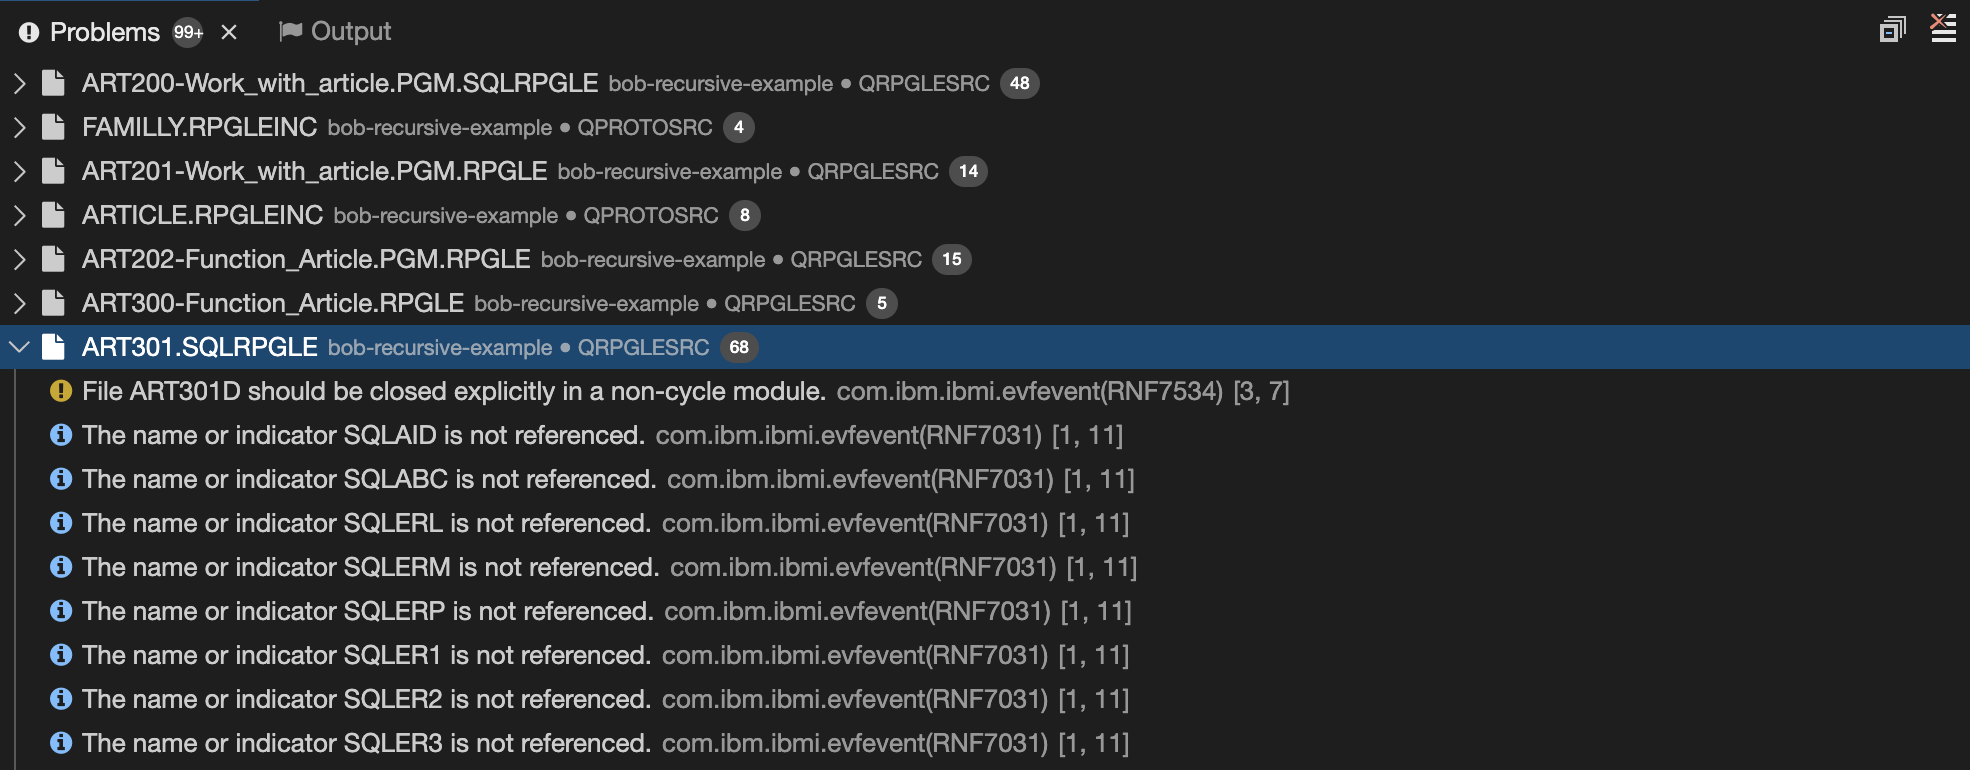
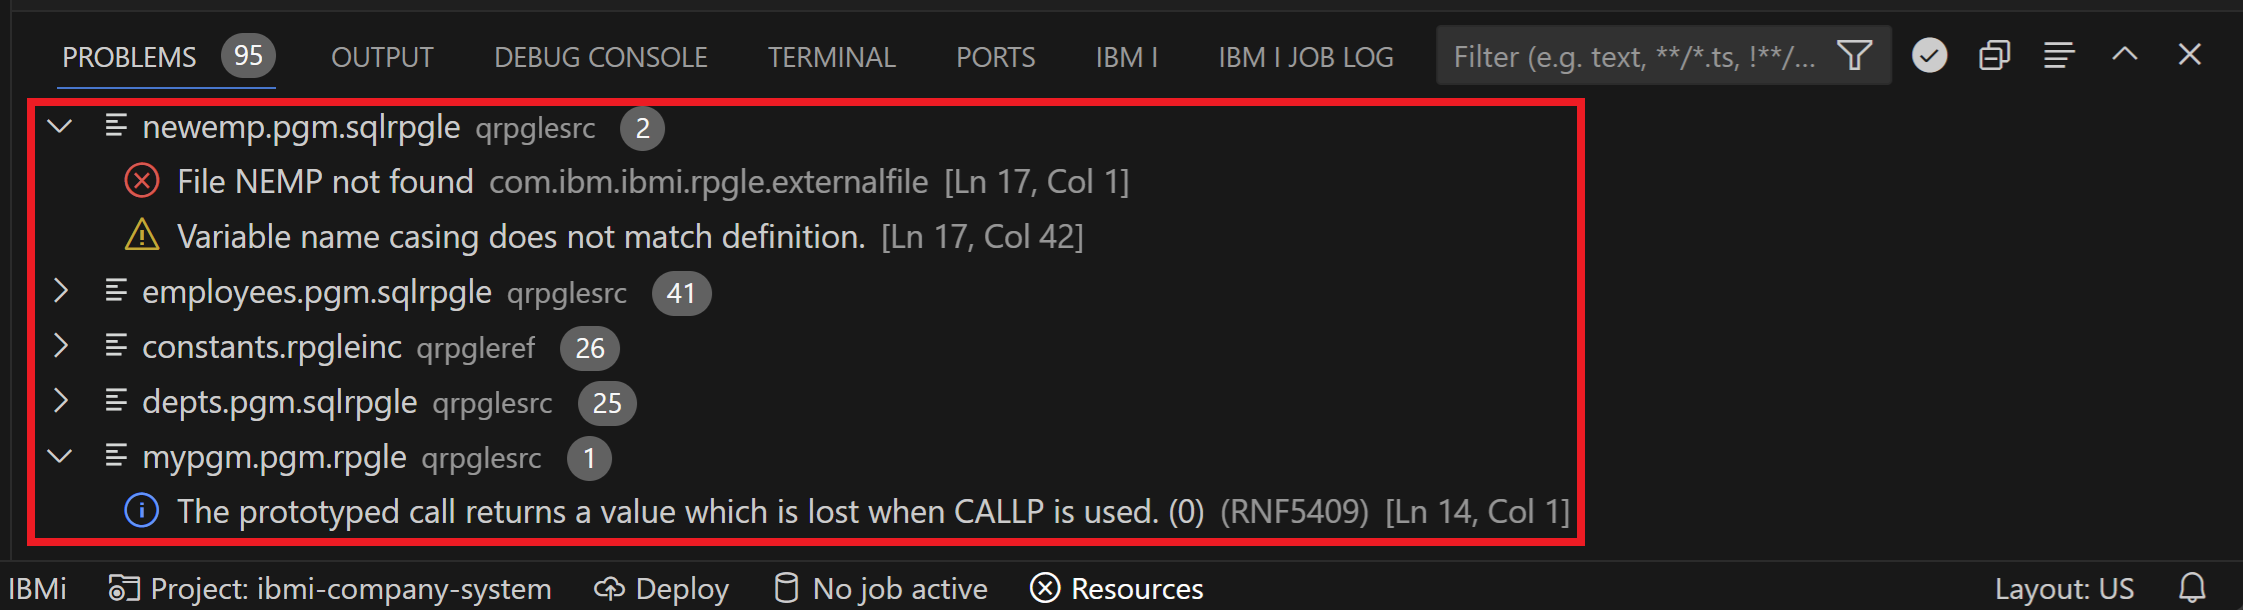
update developer build

diff --git a/docs/guides/ide/developerbuild.md b/docs/guides/ide/developerbuild.md
@@ -4,87 +4,150 @@ IBM i Developer allows the user to run the project-based developer builds. IBM i
 
 ## Prepare the Workspace and the Project
 
-Before getting started, please make sure you have set up your [IBM i Projects](ibmiprojectexplorer.md).
+Before getting started, please make sure you have set up your [IBM i Projects](./guides/ide/ibmiprojectexplorer.md).
 
 - Specify an IBM i Connection
-- Specify the Build Directory
-- Set the values for any variables defined in the project.
+- Set the deploy location
+- Set the values for any variables defined in the project
 
-## Configure the Build Command and the Compile Command
+The build or compiles of a project are based on the `buildCommand` and `compileCommand` fields in the project's iproj.json. Similarly, another solution is to use an `actions.json` file to store configurations for different technologies.
 
-You may configure to use different build technologies by specifying different build/compile commands. The build command is for building an entire project. The compile command is for building a single file. There are two ways you can define those two commands.
+## Run a Build
 
-1. The default way of building a project is specified in the Preferences. Those settings apply to all the projects in the workspace and can be overwritten by a project's `iproj.json`. To change the commands, go to **File>Settings>Open Preferences** (or Ctrl/Cmd + ,)>scroll down to the Build command or compile command.
+Before running a build, the project's build command must be set. This can be done using the **Set Build Command** action on the project. Here you can leverage any build tool such as `elias` in ARCAD Builder or `makei` in `ibmi-bob`. The build command and compile command (described below) both support the substitution of variables. For more information about variable substitution, see the [buildCommand](https://ibm.github.io/vscode-ibmi-projectexplorer/#/pages/ibm-i-projects/iproj-json?id=buildcommand) section of the `iproj.json` documentation.
 
-   ![IBM i Developer Settings for Build/Compile Commands](../../images/guides/devbuildCommandPref.png)
+![Set Build Command](../../images/guides/devBuildSetBuildCommand.png ':size=500')
 
-2. For project specific build setup, the build/compile commands can be specified in the project's iproj.json. See the [documentation](https://ibm.github.io/ibmi-bob/#/prepare-the-project/iproj-json?id=buildcommand) on how to set the commands.
+To then launch a build, use the **Run Build** action on the project heading or the `ctrl+shift+b` shortcut (`cmd+shift+b` on Mac). This will first deploy the project and then invoke the build command. To view the output of this build process, navigate to the **Output** view and select the **IBM i Output** channel.
 
-   ![defining build/compile command in iproj.json](../../images/guides/devbuildCommandIproj.png)
+![Run Build](../../images/guides/devBuildRunBuild.png ':size=700')
 
-Both methods support the substitution of variables.
+## Run a Compile
 
-| Variable   | Description                                                  |
-| ---------- | ------------------------------------------------------------ |
-| {files}    | resolves to the list of files being selected or the active editor. |
-| {filename} | resolves to the base file name being edited. **Deprecated**  |
-| {path}     | resolves to the full IFS path corresponding to the source in the editor. |
-| {host}     | resolves to the IBM i hostname.                              |
-| {usrprf}   | the user profile that the command will be executed under.    |
-| {branch}   | resolves to the name of the current git branch if this project is managed by git. |
+Similar to the build command, the project's compile command must be first set using the **Set Compile Compile** action on the project.
 
-Note: For more information about how to use [BOB](https://github.com/IBM/ibmi-bob)'s `makei` utility, please view the [documentation for makei](https://ibm.github.io/ibmi-bob/#/cli/makei).
+![Set Compile Command](../../images/guides/devBuildSetCompileCommand.png ':size=500')
 
-## Perform a Build/Compile
+To compile a directory or file, this can be achieved from several locations:
 
-Select **View>Find Command** and enter **IBM i Developer: Build** (or Ctrl/Cmd + Shift + B) to invoke the build command.
+- To compile the active text editor in which you are working in, using the **Run Compile** action located at the top right of the editor, in the VS Code command palette, or by simply using the `ctrl+shift+c` shortcut (`cmd+shift+c` on Mac)
+- To compile an entire directory or a specific file, use the right-click **Run Compile** action on any file or directory in the **File Explorer** or under the **Source** heading
 
-![IBM i Developer: Build Project](../../images/guides/devbuildBuildCommand.png)
+![Run Compile](../../images/guides/devBuildRunCompile.png ':size=750')
 
-You can also find a shortcut in the [project explorer](./ibmiprojectexplorer.md) to directly perform a build for a specific project.
+## Run an Action
 
-![IBM i Project Explorer Build Action](../../images/guides/devbuildProjExplorerBuildAction.png)
+An alternative to using the build or compile command is to leverage the use of Code for IBM i workspace actions. These actions are stored in `.vscode/actions.json` at the root of the project and should be pushed to the Git repository. To generate an initial `actions.json` file, use the **Launch Action Setup** action on the project. Here you will be prompted to select from a set of pre-defined actions.
 
-The compile command will compile the currently active file in the workspace by default. To invoke the compile command, you must first open the source file you want to compile. And then select **View>Find Command** and enter **IBM i Developer: Compile** or **IBM i Developer: Build** (or Ctrl/Cmd + F7).
+![Launch Action Setup](../../images/guides/devBuildLaunchActionSetup.png ':size=500')
 
-You can tell the build/compile command is running from the pop-up output channel.
+Refer to the example below of having setup a project to use `ibmi-bob`:
+
+```bash
+[
+  {
+    "extensions": [
+      "GLOBAL"
+    ],
+    "name": "Build all",
+    "command": "OPT=*EVENTF BUILDLIB=&CURLIB /QOpenSys/pkgs/bin/makei build",
+    "environment": "pase",
+    "deployFirst": true,
+    "postDownload": [
+      ".logs",
+      ".evfevent"
+    ]
+  },
+  {
+    "extensions": [
+      "GLOBAL"
+    ],
+    "name": "Build current",
+    "command": "OPT=*EVENTF BUILDLIB=&CURLIB /QOpenSys/pkgs/bin/makei compile -f {filename}",
+    "environment": "pase",
+    "deployFirst": true,
+    "postDownload": [
+      ".logs",
+      ".evfevent"
+    ]
+  }
+]
+```
+
+After having setup the actions, you can invoke them using the **Run Action** action on the project. This can also be done from the top right of the active text editor or by simply using the `ctrl+e` shortcut (`cmd+e` on Mac).
+
+![Run Action](../../images/guides/devBuildRunAction.png ':size=700')
 
 ## Getting Feedback
 
 ### Output from Build/Compile Command
 
-The **Output** view contains a channel showing all the standard outputs for the running build/compile commands.
+When running a build or compile, a terminal will automatically open which will display the standard output for the running build/compile command.
 
-Those outputs can be found under the **OUTPUT** tab (**View->Output**, or Ctrl/Cmd + Shift + U). Select **IBM i Build Output** in the drop-down on the right.
-
-![IBM i Build Output Channel](../../images/guides/devbuildBuildOutput.png)
-
-You may clear the outputs or turn on and off the auto-scrolling feature using the buttons on the right.
-
-![IBM i Build Output Channel Actions](../../images/guides/devbuildBuildOutputActions.png)
+![IBM i Build Output Channel](../../images/guides/devBuildBuildOutput.png ':size=1100')
 
 ### Compiler Feedback
 
 IBM i Developer will populate the problem view (View->Problems, or Ctrl/Cmd + Shift + M) with compiler feedbacks. Those feedbacks come from the event files under `.evfevent` directory.By default, the build tools will create those event files, and IBM i Develop will then pull them back in the Build/Compile process.
 
-![Problem View](../../images/guides/devbuildProblemView.png)
+![Problem View](../../images/guides/devBuildProblemView.png ':size=1000')
 
 You can click on any line to jump to the source directly.
 
 ### Job Log Results
 
-IBM i Developer will also read `.logs/joblog.json` files to populate the **IBM i Job Log** view (**View->Find View**, and enter **IBM i Job Log**).
+**IBM i Project Explorer** provides a view in the **IBM i Job Log** panel to display all of the information you would get in an IBM i job log and spool files after a build.  This will be very helpful when diagnosing why a build failed.
 
-![Open Job Log View](../../images/guides/devbuildOpenJobLogView.png)
+![Job Log panel](../../images/guides/devBuildjobLog.png ':size=1000')
 
-![Job Log View](../../images/guides/devbuildJobLogView.png)
+## Job log Tree Contents
 
-The job logs are grouped by commands and you can always find the latest at the top.
-Click on the command to show all the job logs related to this command. You can also hover on a job log message to show details.
+### Project Level
+The top level of this tree is the project name with the project description as its details. This allows the job logs of multiple projects to be shown in this view. Only the latest build is persisted in the project, but the other jobs are kept in memory until the workspace is restarted or the **Clear Previous Job Logs** action on the project is run.
 
-![Job Log View Hover](../../images/guides/devbuildJobLogViewHover.png)
+![Clear Previous Job Logs](../../images/guides/devBuildClearPrevious.png ':size=750')
 
-You may find the [schema for joblog.json](https://ibm.github.io/ibmi-bob/#/reference/joblog-json) under BOB's documentation.
+The **Show Job Log** action, which is also available inline, will load the joblog.json file with the raw data into the editor.  This might be useful for searching, etc.
+
+![Show Job Log](../../images/guides/devBuildShowJobLog.png ':size=750')
+
+### Job Log Level
+The next level is the timestamp when the build or compile was run and represents all the command run for that particular build.
+The commands can be toggled via the inline action to show all executed commands or only those that failed.
+
+![Show Failed Jobs](../../images/guides/devBuildShowFailedJobs.png ':size=800')
+
+If the action above is selected, all successful commands are filtered out so that you can focus on the failing ones.  This can be very useful when lots of objects are being built.
+
+![Show All Jobs](../../images/guides/devBuildShowAllJobs.png ':size=800')
+
+To help zero in on the problem, there is also an action to filter the messages, so that you can set the minimum severity of messages you would like to see. In the example below, the message severity was set to 10 so that all of the information messages were filtered out.
+
+![Filter Message Severity](../../images/guides/devBuildFilterMessageSeverity.png ':size=750')
+
+### Object Level
+The children of a job log are all the ILE objects being built.  The description is the source in the IFS that is being compiled into that object.
+
+![Copy Command](../../images/guides/devBuildObjectLevelActions.png ':size=750')
+
+The actions available on the object, both in the context menu and the inline menu include **Copy** and **Show Object Build Output**.  The **Copy** action copies the command into the clipboard.  This allows you to paste it into the 5250 or PASE where you can run the command in isolation. The **Show Object Build Output** will show the equivalent of spool file output including the compile listing and any standard error and output from PASE commands.  Note that the compile errors will also be shown in the `Problems` view but sometimes there are other reasons for a command to fail and they can be seen here.
+
+### Messages Level
+
+On the next level the first item is unique. It is the compile command being run in QSYS to build the target.   This command can be copied using the **Copy** action.
+
+The remaining items are the messages that were produced in the job log when executing this command.  While there are no actions on messages, the hover shows all of the message details including second level help.
+
+![Second Level Message](../../images/guides/devBuildSecondLevelMessage.png ':size=750')
+
+## Where Does The Data Come From
+Build commands such as BOB (https://github.com/IBM/ibmi-bob) and ARCAD generate a file named `.logs/joblog.json`. They also generate text files in the same directory with names like `target_object.splf` that contain the PASE standard out or spool file equivalent for each command, including the compile listing.  These files are copied to the `.logs` directory in the project root.
+
+![Job Log File](../../images/guides/devBuildJobLogFile.png ':size=850')
+
+This copy process is automatic when invoking build or compile action for **IBM i Project Explorer** projects. For **Code for IBM i** actions the downloading of these files can be configured by the `postDownload` attribute in the `actions.json`  file.  The `.evfevent` directory specified here is necessary to get the compiler errors in the `Problems` view.
+
+![Configure download of .logs directory](../../images/guides/devBuildPostDownload.png ':size=850')
 
 For information on using ARCAD tools, see [How to use ARCAD integration with IBM i Modernization Engine for Lifecycle Integration](https://supportcontent.ibm.com/support/pages/how-use-arcad-integration-ibm-i-modernization-engine-lifecycle-integration-merlin)    
 
